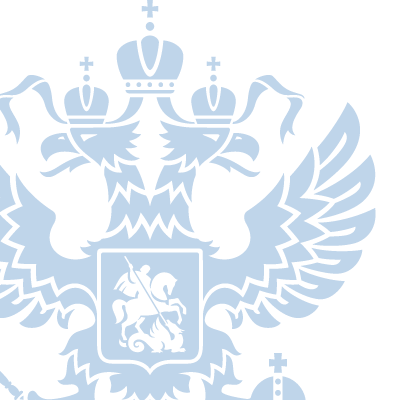
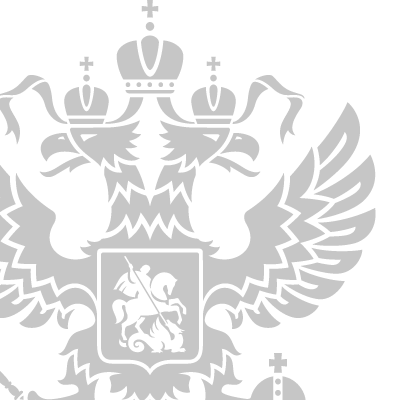
update

diff --git a/public/design.kzk2018.min.css b/public/design.kzk2018.min.css
@@ -1,1 +1,1 @@
[2 lines of base64/hex data omitted]

diff --git a/public/design.kzk2018.css b/public/design.kzk2018.css
@@ -38,7 +38,7 @@
   width: 100%;
   height: 100%;
   z-index: 0;
-  background-image: url("images/kzk2018/heraldry_big.png");
+  background-image: url("images/kzk2018/bg-center.png");
   background-repeat: no-repeat;
   background-position: center 300px;
 }

diff --git a/design/kzk2018/common.blocks/fs-view/fs-view.css b/design/kzk2018/common.blocks/fs-view/fs-view.css
@@ -34,7 +34,7 @@
     width: 100%;
     height: 100%;
     z-index: 0;
-    background-image: url('heraldry_big.png');
+    background-image: url('bg-center.png');
     background-repeat: no-repeat;
     background-position: center 300px;
 }
